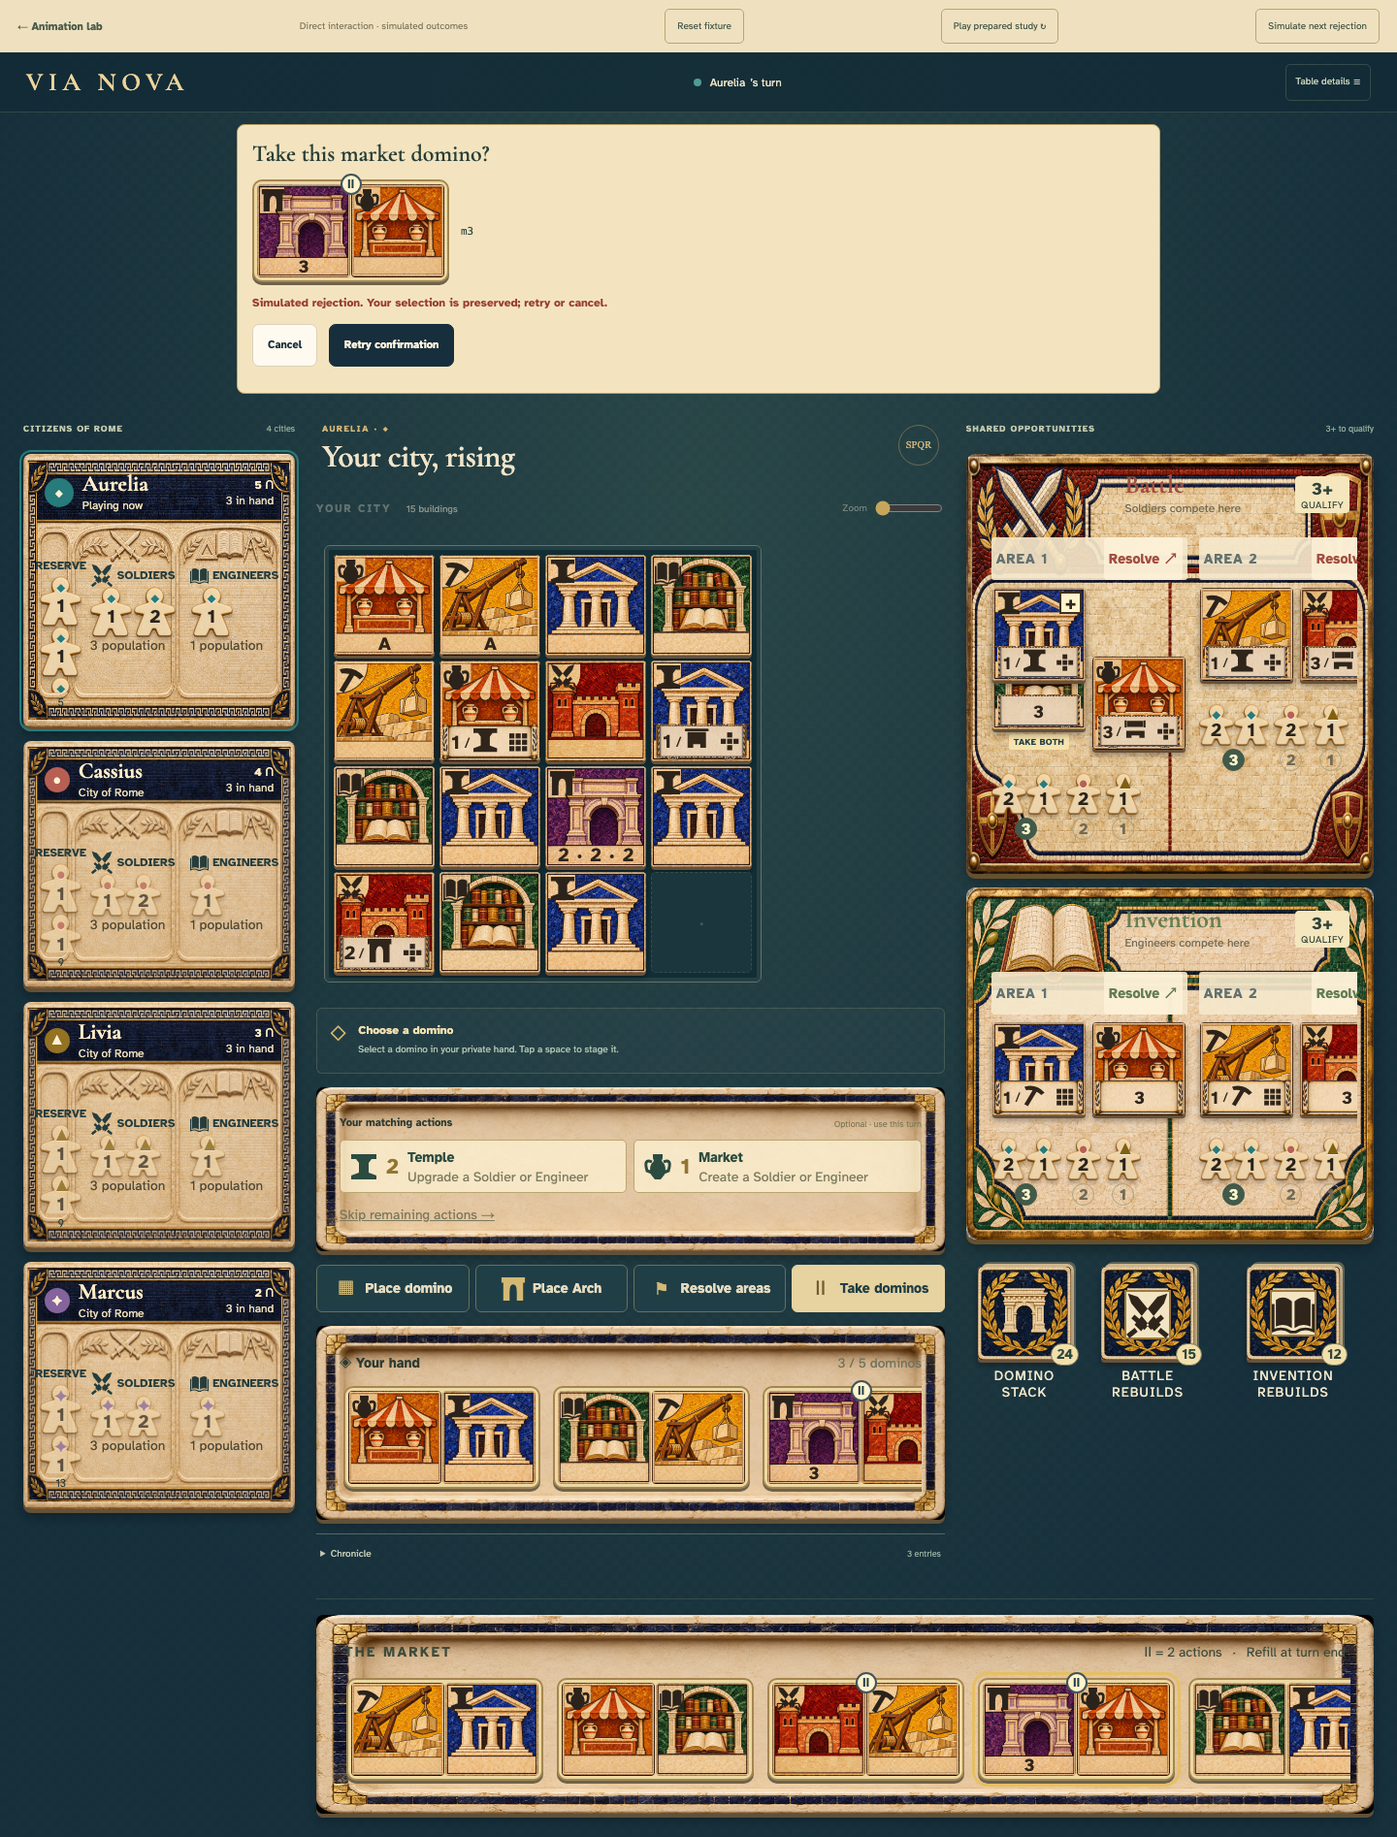
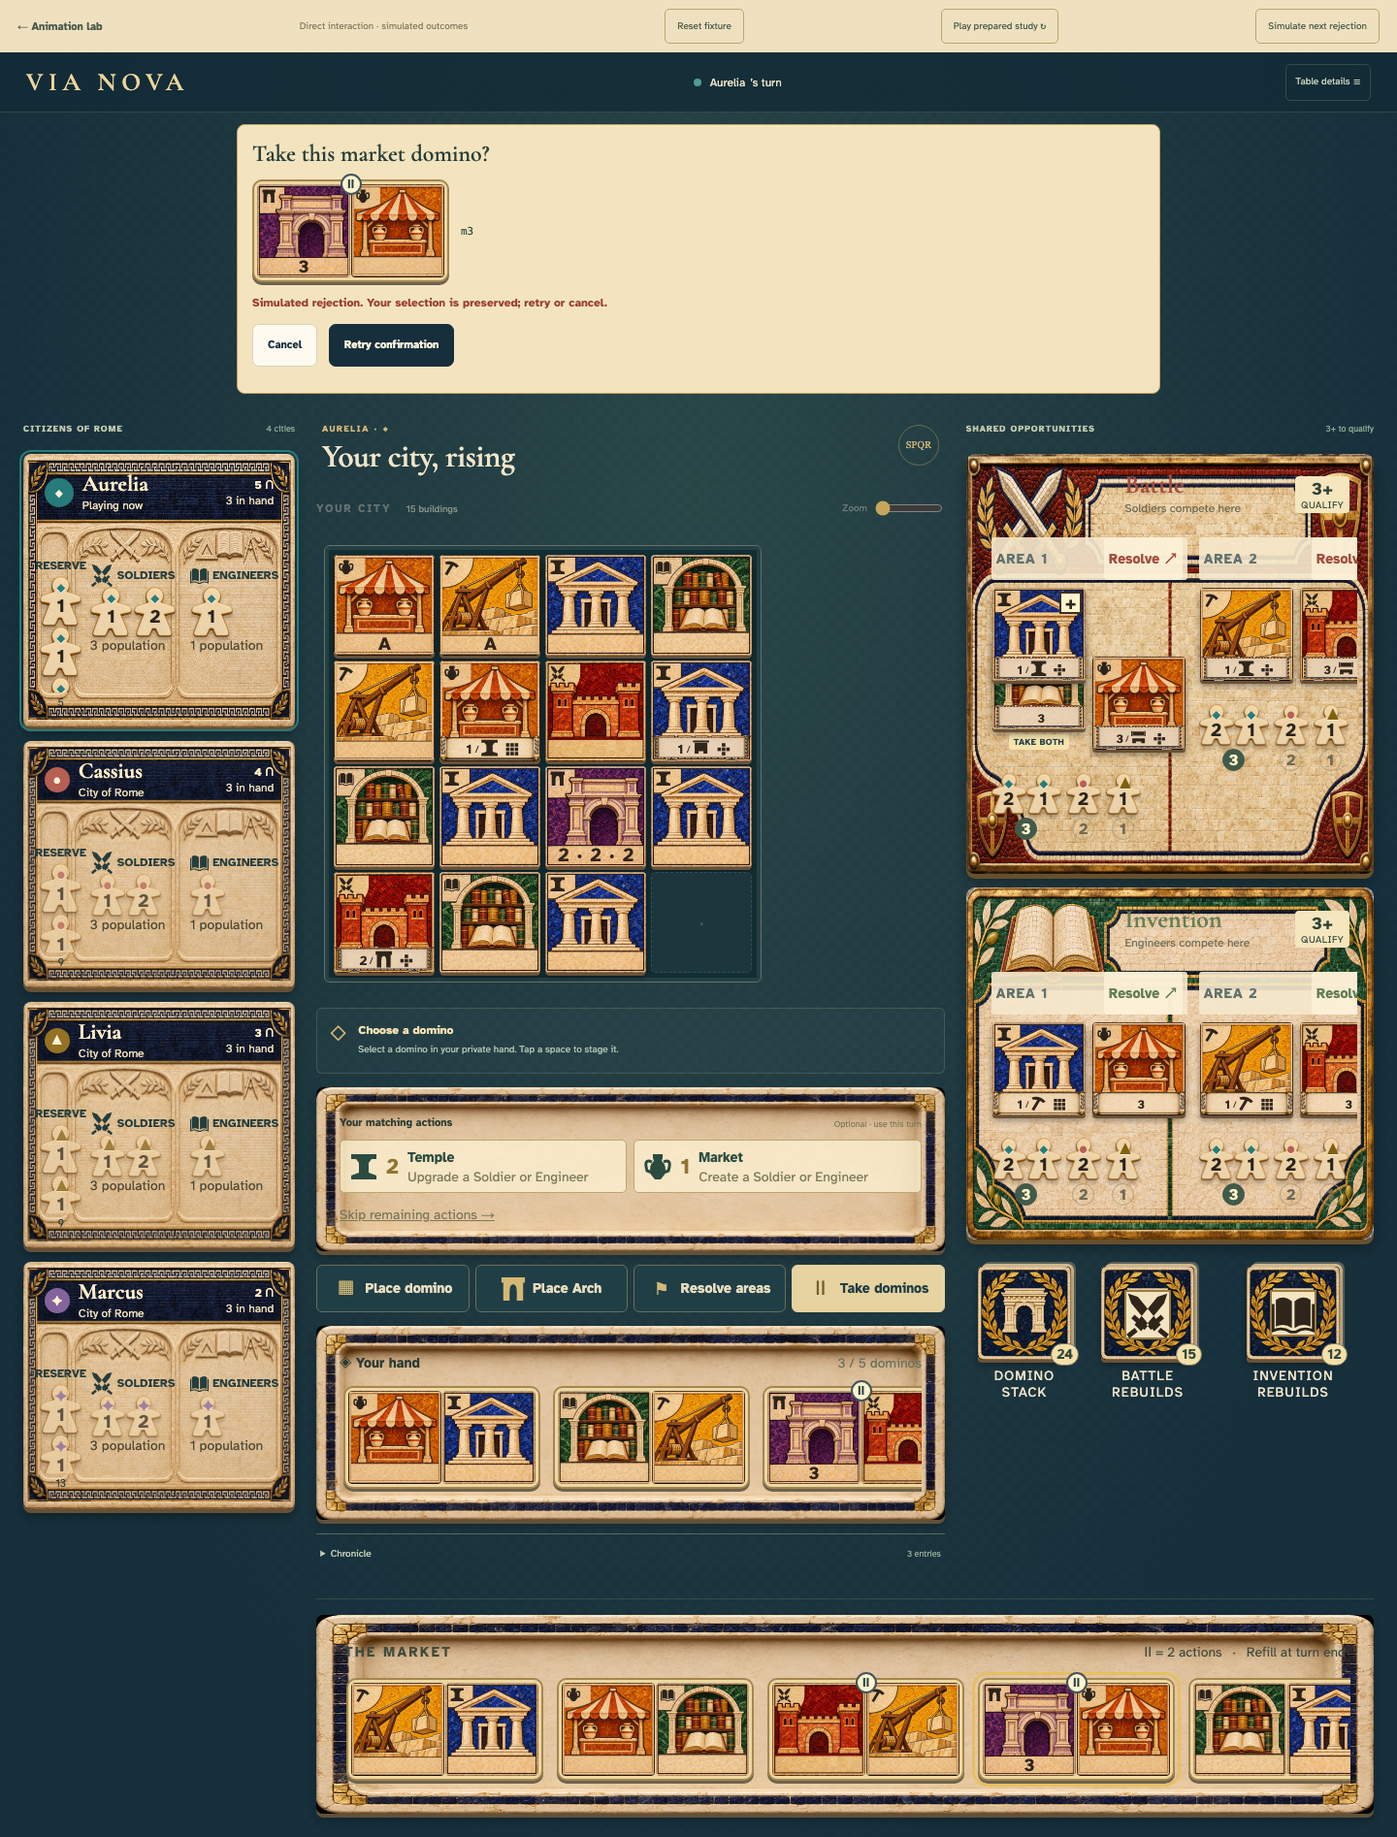
Generalize approved Library registration across every tile family

diff --git a/tests/artwork.spec.ts b/tests/artwork.spec.ts
@@ -1,4 +1,6 @@
 import { test, expect } from '@playwright/test';
+import { shippedRegistration } from '../src/lib/presentation/tile-registration';
+import type { Building } from '../src/lib/presentation/types';
 
 test('rich shared layers load, keep symbols consistent and permit monochrome comparison', async ({
   page
@@ -33,7 +35,7 @@ test('rich shared layers load, keep symbols consistent and permit monochrome com
   expect(broken).toEqual([]);
 });
 
-test('small phone game uses full artwork with readable score targets and tactile input sizes', async ({
+test('phone game honours the supplied calibration while keeping physical tiles and touch targets full size', async ({
   page
 }) => {
   await page.setViewportSize({ width: 390, height: 844 });
@@ -42,11 +44,36 @@ test('small phone game uses full artwork with readable score targets and tactile
   // The visible city keeps real tiles; panning replaces destructive shrinking.
   const city = page.locator('.city-column [data-component="CityBoard"]');
   await expect(city).toBeVisible();
-  const symbol = city.locator('.building-emblem').first();
-  const bounds = await symbol.boundingBox();
-  expect(bounds!.width).toBeGreaterThanOrEqual(24);
-  const target = city.locator('.target').first();
-  expect((await target.boundingBox())!.width).toBeGreaterThanOrEqual(24);
+  const face = city.locator('[data-component="Tile"]').first();
+  const tileBounds = (await face.boundingBox())!;
+  expect(tileBounds.width).toBeGreaterThanOrEqual(96);
+  const building = (await face.getAttribute('data-building')) as Building;
+  const symbol = face.locator('[data-registration-layer="building-symbol"]');
+  expect((await symbol.boundingBox())!.width).toBeCloseTo(
+    (tileBounds.width * shippedRegistration.faces[building].symbol.width) / 100,
+    1
+  );
+  const scored = city
+    .locator('[data-component="Tile"]')
+    .filter({ has: page.locator('[data-component="ScoreSymbol"]') })
+    .first();
+  const scoredBounds = (await scored.boundingBox())!;
+  const shape = (await scored
+    .locator('[data-component="ScoreSymbol"]')
+    .getAttribute('class'))!.includes('banner')
+    ? 'banner'
+    : 'scroll';
+  for (const [layer, p] of [
+    ['score-material', shippedRegistration.scores[shape].material],
+    ['score-ink', shippedRegistration.scores[shape].ink]
+  ] as const) {
+    const rect = (await scored.locator(`[data-registration-layer="${layer}"]`).boundingBox())!;
+    expect(rect.x - scoredBounds.x).toBeCloseTo((scoredBounds.width * p.x) / 100, 1);
+    expect(rect.y - scoredBounds.y).toBeCloseTo((scoredBounds.height * p.y) / 100, 1);
+    expect(rect.width).toBeCloseTo((scoredBounds.width * p.width) / 100, 1);
+    expect(rect.height).toBeCloseTo((scoredBounds.height * p.height) / 100, 1);
+  }
+  await expect(scored.locator('.target')).toBeVisible();
   expect(await page.evaluate(() => document.documentElement.scrollWidth)).toBeLessThanOrEqual(390);
   await page.screenshot({ path: 'test-results/review/mosaic-game-phone.png', fullPage: true });
 });

diff --git a/src/lib/presentation/tile-registration.test.ts b/src/lib/presentation/tile-registration.test.ts
@@ -7,7 +7,7 @@ import {
   shippedRegistration,
   tileRegistration
 } from './tile-registration';
-import type { TileData } from './types';
+import { buildings, type TileData } from './types';
 
 describe('shared tile layer registration', () => {
   const tile: TileData = {
@@ -16,22 +16,29 @@ describe('shared tile layer registration', () => {
     score: { shape: 'banner', multiplier: 1, target: 'quarry' },
     plus: true
   };
-  it('calibrates independent face emblems and places ink in the plaque opening', () => {
+  it('generalizes the supplied Library calibration across all families and scoring shapes', () => {
     expect(parseRegistration(JSON.parse(JSON.stringify(shippedRegistration)))).toEqual(
       shippedRegistration
     );
-    const scroll = shippedRegistration.scores.scroll,
-      banner = shippedRegistration.scores.banner;
-    for (const [shape, { material, ink }] of [
-      ['scroll', scroll],
-      ['banner', banner]
-    ] as const) {
-      expect(ink.x).toBeGreaterThanOrEqual(material.x + 8);
-      expect(ink.x + ink.width).toBeLessThanOrEqual(material.x + material.width - 8);
-      expect(ink.y).toBeGreaterThanOrEqual(material.y + 3);
-      expect(ink.y + ink.height).toBeLessThanOrEqual(
-        material.y + material.height - (shape === 'banner' ? 5 : 3)
-      );
+    const symbol = { x: 5, y: 5, width: 15, height: 15, rotation: 0, opacity: 1 };
+    const material = { x: 0, y: 74, width: 100, height: 26, rotation: 0, opacity: 1 };
+    const ink = { x: 25, y: 78, width: 55, height: 20, rotation: 0, opacity: 1 };
+    for (const building of buildings) {
+      expect(shippedRegistration.faces[building].symbol).toEqual(symbol);
+      for (const shape of ['scroll', 'banner'] as const) {
+        const layout = tileRegistration(shippedRegistration, {
+          id: `${building}-${shape}`,
+          building,
+          score: { shape, multiplier: 1, target: 'quarry' }
+        });
+        expect(layout['building-symbol']).toEqual(symbol);
+        expect(layout['score-material']).toEqual(material);
+        expect(layout['score-ink']).toEqual(ink);
+        expect(ink.x).toBeGreaterThanOrEqual(material.x);
+        expect(ink.x + ink.width).toBeLessThanOrEqual(material.x + material.width);
+        expect(ink.y).toBeGreaterThanOrEqual(material.y);
+        expect(ink.y + ink.height).toBeLessThanOrEqual(material.y + material.height);
+      }
     }
     expect(shippedRegistration.faces.library.symbol).not.toBe(
       shippedRegistration.faces.barracks.symbol

diff --git a/tests/registration.spec.ts b/tests/registration.spec.ts
@@ -60,6 +60,15 @@ test('drafts are isolated; applying and restoring synchronizes the real gallery 
   page,
   context
 }) => {
+  // Simulate saved settings and a tab draft from the previous published preview.
+  // They must remain available in storage without masking the newly shipped layout.
+  const previous = JSON.parse(JSON.stringify(shippedRegistration));
+  previous.faces.library.symbol = { ...previous.faces.library.symbol, x: 4, width: 26, height: 26 };
+  await context.addInitScript((book) => {
+    localStorage.setItem('vianova::tile-registration:v1', JSON.stringify(book));
+    localStorage.setItem('vianova::tile-registration:v1:previous', JSON.stringify(book));
+    sessionStorage.setItem('vianova::tile-registration-draft:v1', JSON.stringify(book));
+  }, previous);
   await page.goto('/dev/layers/?piece=invention-02');
   await expect(page.getByLabel('Manifest piece')).toBeEnabled();
   await page.getByRole('button', { name: /^Building emblem/ }).click();
@@ -78,6 +87,13 @@ test('drafts are isolated; applying and restoring synchronizes the real gallery 
     '[data-review-id="building-library"] [data-registration-layer="building-symbol"]'
   );
   await expectX(emblem, initialLibraryX);
+  expect(
+    await page.evaluate(
+      () =>
+        JSON.parse(localStorage.getItem('vianova::tile-registration:v1')!).faces.library.symbol
+          .width
+    )
+  ).toBe(26);
   const lab = await context.newPage();
   await lab.goto('/dev/animations/');
   const inLab = lab

diff --git a/src/lib/review/registration-session.ts b/src/lib/review/registration-session.ts
@@ -1,7 +1,18 @@
 import type { Readable } from 'svelte/store';
-import type { RegistrationBook } from '../presentation/tile-registration';
+import { shippedRegistration, type RegistrationBook } from '../presentation/tile-registration';
 export const reviewRegistrationContext = Symbol('Review registration session');
 export type RegistrationSession = Readable<RegistrationBook> & {
   apply: (book: RegistrationBook) => void;
   reset: () => void;
 };
+
+// Appearance caches belong to the shipped calibration they were authored against.
+// Keep older entries intact, but never let them mask newly published defaults.
+let hash = 2166136261;
+for (const char of JSON.stringify(shippedRegistration))
+  hash = Math.imul(hash ^ char.charCodeAt(0), 16777619);
+export const registrationRevision = (hash >>> 0).toString(16);
+export const registrationCacheKey = (base: string) =>
+  `vianova:${base}:tile-registration:v1:${registrationRevision}`;
+export const registrationDraftKey = (base: string) =>
+  `vianova:${base}:tile-registration-draft:v1:${registrationRevision}`;

diff --git a/src/lib/review/RegistrationProvider.svelte b/src/lib/review/RegistrationProvider.svelte
@@ -8,10 +8,14 @@
     registrationContext,
     type RegistrationBook
   } from '../presentation/tile-registration';
-  import { reviewRegistrationContext, type RegistrationSession } from './registration-session';
+  import {
+    registrationCacheKey,
+    reviewRegistrationContext,
+    type RegistrationSession
+  } from './registration-session';
   let { children }: { children: Snippet } = $props();
   const store = writable<RegistrationBook>(cloneRegistration());
-  const key = `vianova:${base}:tile-registration:v1`;
+  const key = registrationCacheKey(base);
   let error = $state('');
   setContext(registrationContext, store);
   setContext<RegistrationSession>(reviewRegistrationContext, {

diff --git a/src/routes/dev/layers/+page.svelte b/src/routes/dev/layers/+page.svelte
@@ -20,11 +20,12 @@
     type TileLayer
   } from '$lib/presentation/tile-registration';
   import {
+    registrationDraftKey,
     reviewRegistrationContext,
     type RegistrationSession
   } from '$lib/review/registration-session';
 
-  const draftKey = `vianova:${base}:tile-registration-draft:v1`;
+  const draftKey = registrationDraftKey(base);
   const session = getContext<RegistrationSession>(reviewRegistrationContext);
   const specimens: {
     id: string;

diff --git a/docs/PRESENTATION.md b/docs/PRESENTATION.md
@@ -96,7 +96,7 @@ Captures and traces are generated in `test-results/` and uploaded by CI; selecte
 
 `BuildingArt` is generated raster artwork, not a markup building illustration. The physical rim is part of that artwork. `Tile` layers one shared `BuildingSymbol`, a generated scroll/banner substrate plus live `ScoreSymbol` ink, Arch values, + and starting markers, followed by selection/focus. `Population` layers generated carved wood with live ownership shape/value. `ContestBoard` and `PlayerMat` use generated board substrates and live reward/population assemblies. All routes and animation travelers consume those same components and image paths. The generated assets and exact prompts are recorded in [art/mosaic/](../art/mosaic/); symbols intentionally remain vector silhouettes as required by the visual standard. No score, ownership or game decision is flattened into a painting.
 
-Pieces retain 96–104 px tile faces in play; the city/market/hand use local panning rather than reducing essential scoring marks. The gallery also has a grayscale comparison control. Compact/tabletop city windows, reserve wells and the shared-table region pan locally within the same geometry; physical seat orientation does not swap renderers. The smallest primary building symbol is at least 24 px; score targets 24 px, footprint 18 px and values at least 16 px. These are measured browser constraints, not evidence of human recognition or physical-table approval. Real phone/tablet/tabletop viewing-distance and designer icon recognition review remain outstanding.
+Pieces retain 96–104 px tile faces in play; the city/market/hand use local panning rather than reducing essential scoring marks. The gallery also has a grayscale comparison control. Compact/tabletop city windows, reserve wells and the shared-table region pan locally within the same geometry; physical seat orientation does not swap renderers. The owner-supplied calibration now uses 15% emblems at (5%, 5%) and both scoring plaques in the bottom 26% of every tile, with ink at (25%, 78%) sized 55% × 20%. Browser checks verify this supplied geometry and full-size tile/touch surfaces; symbol dimensions follow that calibration rather than the larger first-pass presets. Real phone/tablet/tabletop viewing-distance and designer icon recognition review remain outstanding.
 
 
 ## Tile layer registration
@@ -105,8 +105,13 @@ Open `/dev/layers/` (the **Tile layers** navigation link), choose a physical man
 
 Draft changes remain in the editor and recover in that browser tab across reloads. **Apply to gallery and lab** validates and saves them to base-path-scoped browser local storage, then updates the existing gallery, personal/tabletop views and animation iframe via the shared registration context and storage events. It does not modify repository files or other browsers. **Remove browser overrides** restores shipped settings everywhere; **Discard draft**, layer reset and undo/redo provide explicit recovery. Invalid JSON or non-finite/out-of-range coordinates are rejected before application.
 
-**Download JSON** exports the exact format of `src/lib/presentation/tile-registration.json`. To publish an approved calibration, replace that checked-in file with the export, run `bun run verify`, and commit it. No renderer, stylesheet or interaction reimplementation is needed. Browser overrides can mask newer shipped defaults, so remove them when reviewing an updated source calibration. Draft/export data includes geometry only, never hidden-layer or exploded inspection settings. The schema is versioned; change its version deliberately when future incompatible artwork/configuration changes require recalibration.
+**Download JSON** exports the exact format of `src/lib/presentation/tile-registration.json`. To publish an approved calibration, replace that checked-in file with the export, run `bun run verify`, and commit it. No renderer, stylesheet or interaction reimplementation is needed. Saved overrides and tab drafts are scoped to the shipped calibration fingerprint. A new published calibration starts from its new defaults; older saved entries remain intact instead of masking the update. JSON exports can be imported explicitly when wanted. Draft/export data includes geometry only, never hidden-layer or exploded inspection settings. The schema is versioned; change its version deliberately when future incompatible artwork/configuration changes require recalibration.
 
 The production boundary is `TileRegistration` plus `RegisteredLayer` and the shared default JSON. `Tile` works without a review provider: it reads shipped defaults, or accepts a supplied registration/context. Only `review/RegistrationProvider.svelte` and the review route know about browser persistence, editor history or authoring controls. Production game authority and presentation controllers are unchanged.
 
 Calibration scopes are deliberate: artwork and emblems per building family, reverse artwork separately, material and ink per scroll/banner shape, and common Arch/starting/+ /reverse identity/protection marks. The bitmap includes the building illustration, stone rim and pale reserved regions: the editor cannot move those baked image features independently. Scoring plaques use the same generated raster material with nine-slice borders; live scoring ink is a uniformly scalable SVG assembly. Symbol viewBoxes trim excess whitespace, and starting arrows stay inside the face boundary. The current offsets and plaques are a corrected first pass, still subject to designer recognition and physical-device review.
+
+
+### Generalized owner calibration · 13 November 2026
+
+The corrected Library export supplies the common emblem and scoring layout across all six families and both scroll/banner shapes. Every physical copy, gallery specimen, city tile and animation traveler reads the same defaults. Artwork, reverse, Arch values, starting letters/arrows, + and other marks retain their supplied settings. Standalone scoring plaques normalize that same assembly to their material bounds. No raster artwork or component renderer was replaced for this calibration update.

diff --git a/ART_DIRECTION.md b/ART_DIRECTION.md
@@ -109,3 +109,8 @@ Minimum-use briefs: building faces 96 px square; scoring plaques 94×36 px with 
 The shared tile assembly now has a registration editor at `/dev/layers/`, backed by [one checked-in configuration](src/lib/presentation/tile-registration.json). Emblems have face-specific offsets; scoring material and ink are independently registered by shape. The scoring plaque’s generated border is nine-sliced to preserve a usable ink opening instead of vertically stretching ornament into it. Scoring ink is one scalable SVG group; family symbol viewBoxes remove internal whitespace, and starting letters/Arch values use explicit text canvases. Actual-size comparisons and exploded/isolated inspection use the exact shared production component. Existing PNG assets are unchanged.
 
 This pass corrects alignment and exposes remaining image constraints for review. The underlying face still combines illustration, rim and reserved regions in one bitmap; separating those features would require new artwork layers. Applied authoring overrides are browser-local; approved JSON exports become the shipped source configuration.
+
+
+## Owner-supplied calibration · 13 November 2026
+
+Apply the corrected Library geometry across all tiles: emblems at x=5%, y=5%, width=15%, height=15%; scroll and banner material at x=0%, y=74%, width=100%, height=26%; ink at x=25%, y=78%, width=55%, height=20%. These supplied proportions replace the first-pass registration and size targets above. All other supplied marks and artwork transforms are retained. Refreshed actual-size gallery/game captures document this common layout. Browser appearance overrides are scoped to the shipped calibration, so older locally saved layouts do not mask the refreshed preview.

diff --git a/docs/review/README.md b/docs/review/README.md
@@ -2,6 +2,8 @@
 
 Current captures from the actual shared Svelte components after the generated mosaic artwork, full v56 inventory and interaction-controller cleanup. `bun run verify` passes: zero Svelte errors/warnings, 34 unit tests, 28 Chromium browser journeys and the static build. Screenshots establish rendered evidence; they do not establish designer approval or human icon recognition. Phone/tablet/tabletop hardware review remains outstanding.
 
+The current tile captures use the owner-supplied Library calibration generalized to all six families and both scoring shapes: 15% emblems at (5%,5%), lower scoring material (0%,74%,100%,26%), and ink (25%,78%,55%,20%). Other supplied marks are retained. Stored settings from earlier calibration revisions no longer mask newly shipped defaults.
+
 ## Tile registration
 
 The `/dev/layers/` route renders the actual shared tile assembly. It provides direct drag/keyboard/numeric edits, per-layer visibility/isolation, exploded stacking, real-size comparison, undo/redo, recoverable drafts, browser-wide application and portable JSON export.
